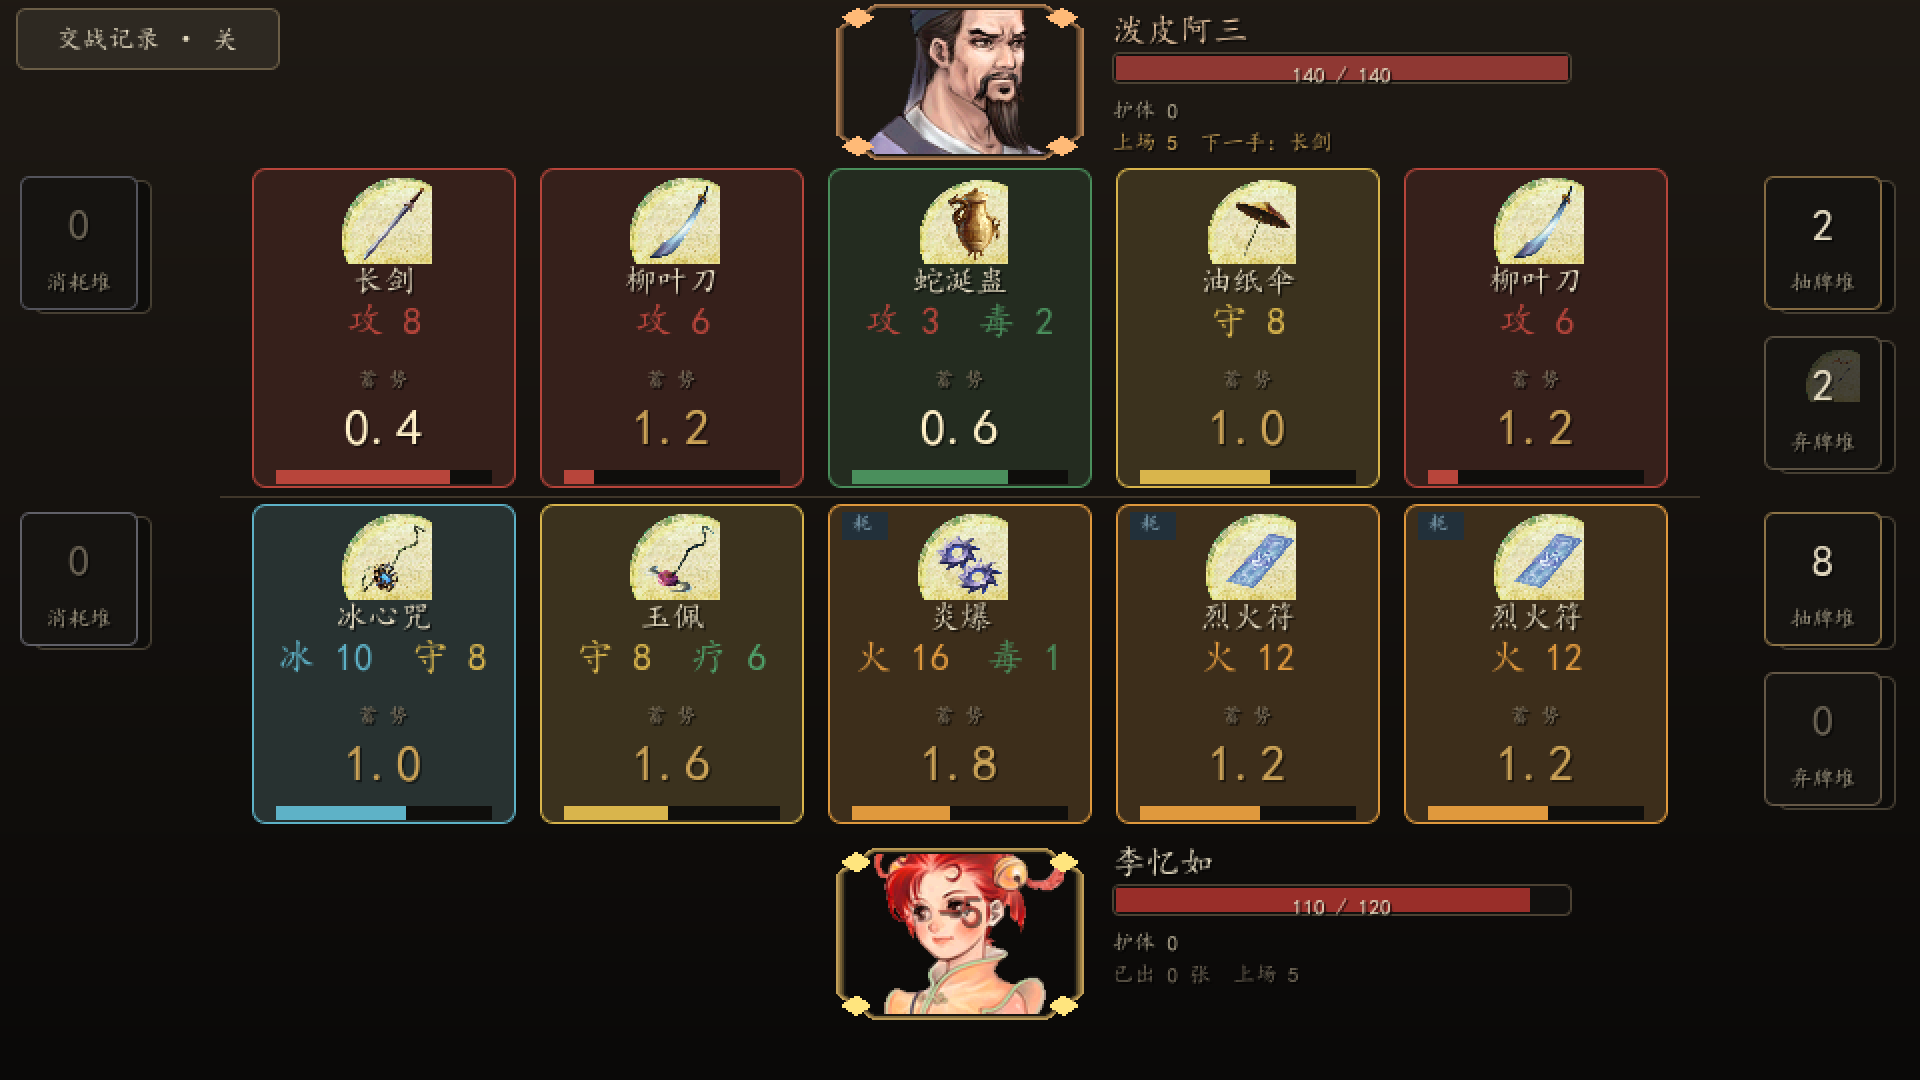
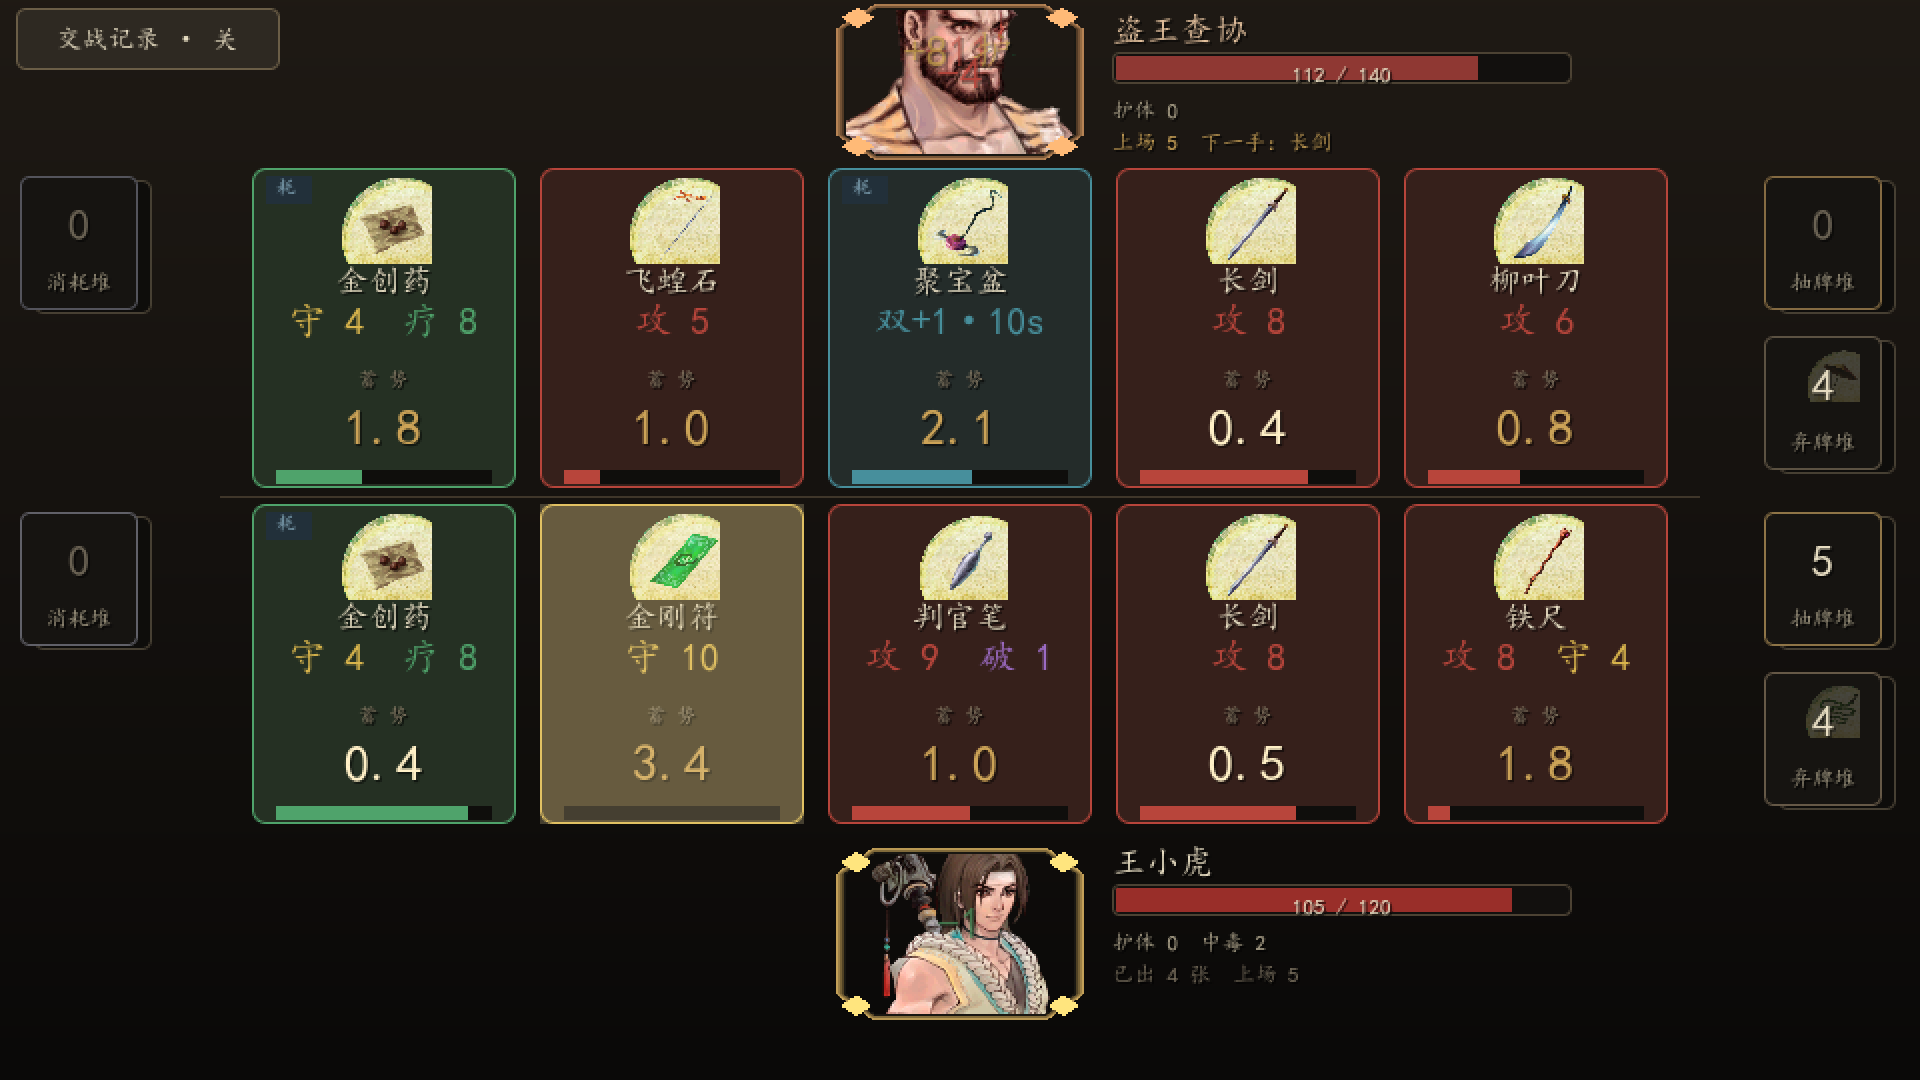
敌名改用原著：泼皮阿三 → 盗王查协
- EnemyConfig 名字/立绘换成原著人物（p35 盗王查协），不再自创名
- 设计文档补 7.5 敌人名单：第 1~8 场排期与对应立绘，全部取自原著人物
- 备注 p04 虞蛇 是解包空白帧（非透明像素 0%），不可用

diff --git a/Docs/卡组战斗设计.md b/Docs/卡组战斗设计.md
@@ -82,7 +82,7 @@
 | 气血 | 120 | 120 |
 | 出牌逻辑 | 完全相同 | 完全相同 |
 
-- 敌方牌组示例（泼皮阿三）：飞蝗石 ×2、长剑、油纸伞、柳叶刀 ×2、蛇涎蛊、金创药——**快牌多、带毒、有一张护体**
+- 敌方牌组示例（盗王查协）：飞蝗石 ×2、长剑、油纸伞、柳叶刀 ×2、蛇涎蛊、金创药——**快牌多、带毒、有一张护体**
 - UI 上敌方手牌用小卡显示图标 / 名字 / 倒计时 / 效果色点，右侧写"下一手：最先归零的那张"
 - 敌我的胜负完全由"牌组配比 + 倒计时方差"决定，没有隐藏的AI偏袒
 
@@ -233,7 +233,7 @@
 
 ## 7. 实测平衡（30 场/套，`--sim=30`）
 
-敌方泼皮阿三：气血 140、9 张牌、带一张「聚宝盆」。
+敌方盗王查协：气血 140、9 张牌、带一张「聚宝盆」。
 
 | 侠客 | 胜率 | 均时 | 观察 |
 | --- | --- | --- | --- |
@@ -253,9 +253,30 @@
 3. **消耗让长战斗后半段变弱**，这是设计意图（拖得越久越吃亏），但也意味着
    未来加敌人时要注意别让战斗时长超过牌组能撑的循环数。
 
+## 7.5 敌人名单（一律用原著名字）
+
+不做自创名。下表按"由弱到强"排定第 1~8 场的对手，全部取自《仙剑奇侠传二》原著人物，
+立绘也来自解包，名字与画面对得上：
+
+| 场次 | 名字 | 立绘 | 定位 |
+| --- | --- | --- | --- |
+| 1 | 盗王查协 | p35 | 占山为王，虎皮坎肩的盗匪 |
+| 2 | 鬼书生 | p22 | 阴魂不散的书生 |
+| 3 | 沈青锋 | p36 | 剑术名家 |
+| 4 | 魉妹 | p32 | 妖异之流 |
+| 5 | 天魑皇 | p24 | 鬼道高手 |
+| 6 | 天鬼皇 | p10 | 鬼界之王 |
+| 7 | 江都王 | p21 / p07（魔化） | 人间权势 |
+| 8 | 千叶禅师 | p37 / p02（魔化） | 终局 |
+
+两点备注：
+
+- `p04 虞蛇` 在解包里是一张**空白帧**（非透明像素 0%），不可用；其余 39 张都能用。
+- 目前只实现了第 1 场，其余是排期不是现状。
+
 ## 8. 下一步（按价值排序）
 
-1. **敌人梯队**：第 1~8 场，气血/牌组/上场数逐场抬高。没有这个，任何数值都调不准。
+1. **敌人梯队**：按 7.5 的表把第 1~8 场做出来，气血/牌组/上场数逐场抬高。没有这个，任何数值都调不准。
 2. **沈欺霜的反伤**：护体被击破时对攻击者反弹 X 点，把她的定位补完。
 3. **上场数的分档**：前 3 场不出器物牌，第 4 场起进池。
 
